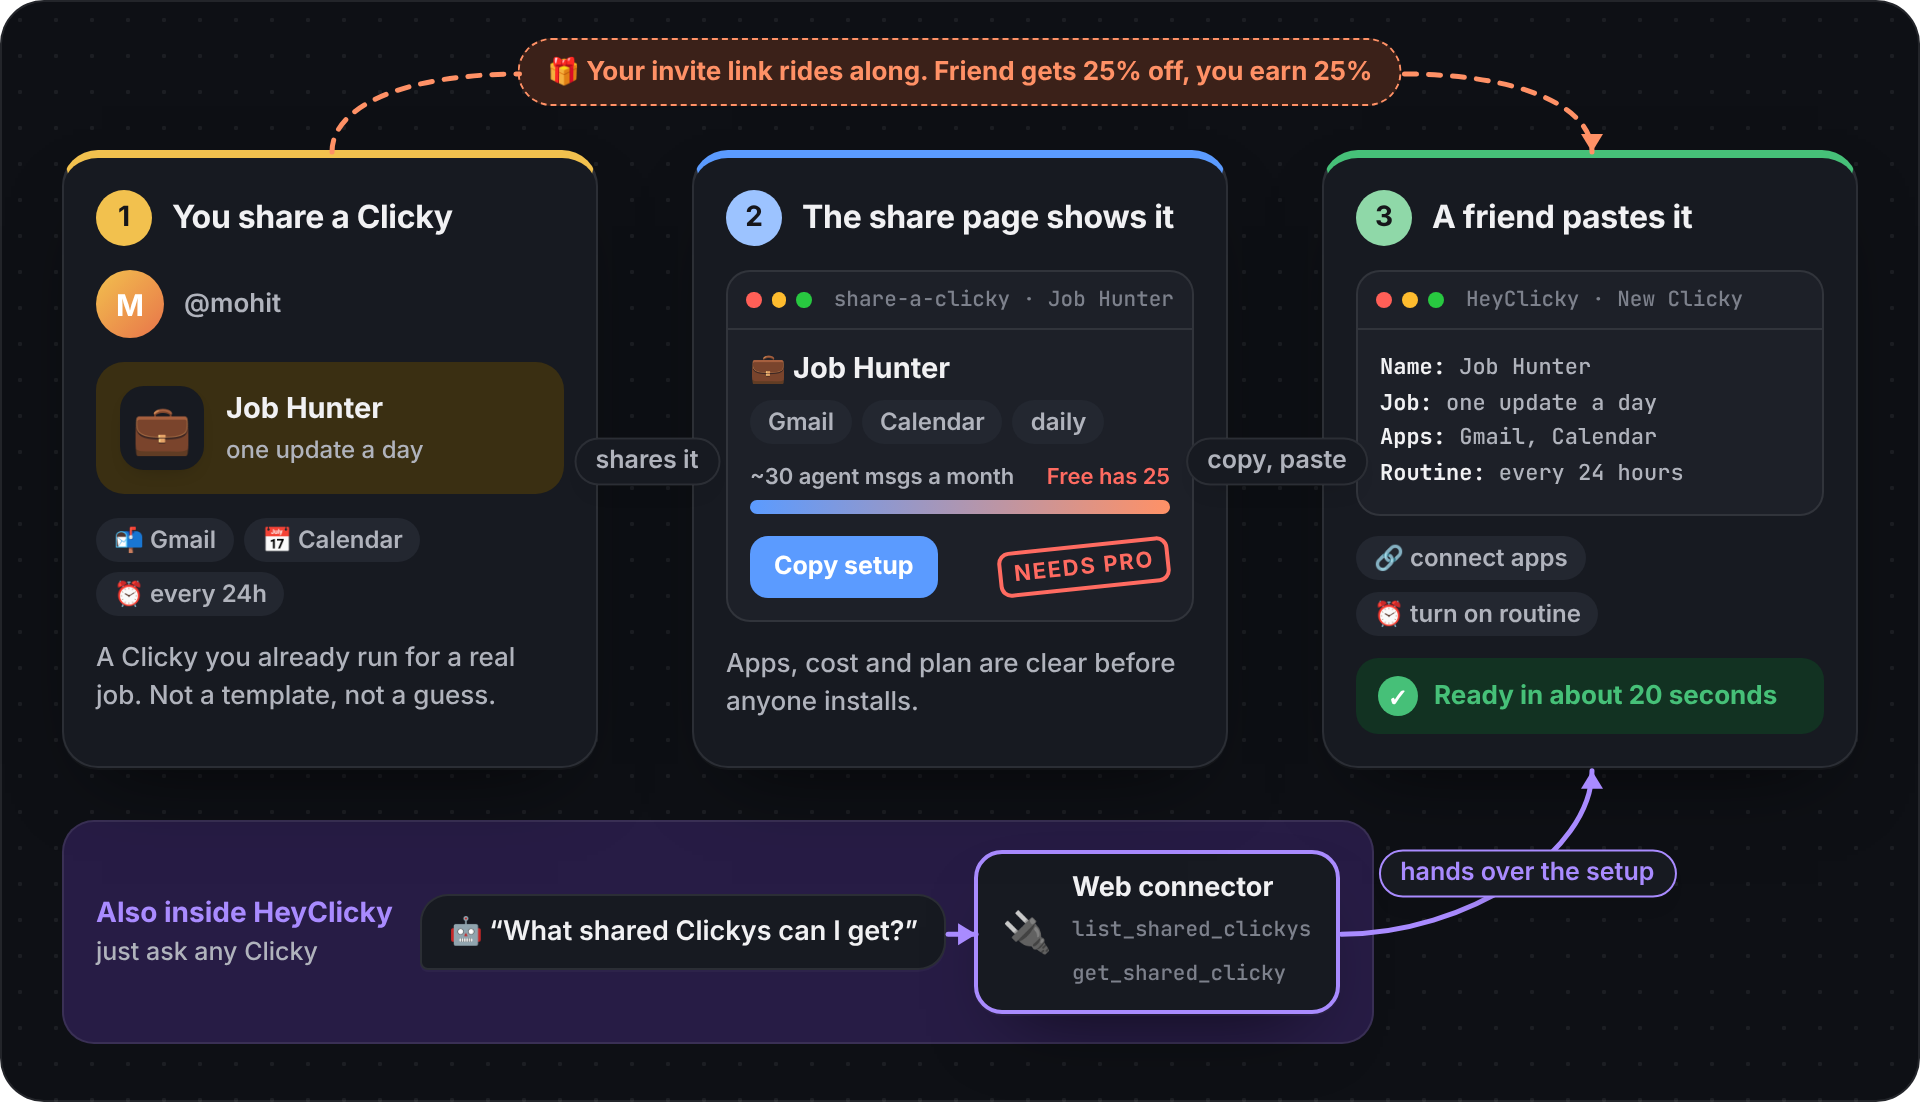
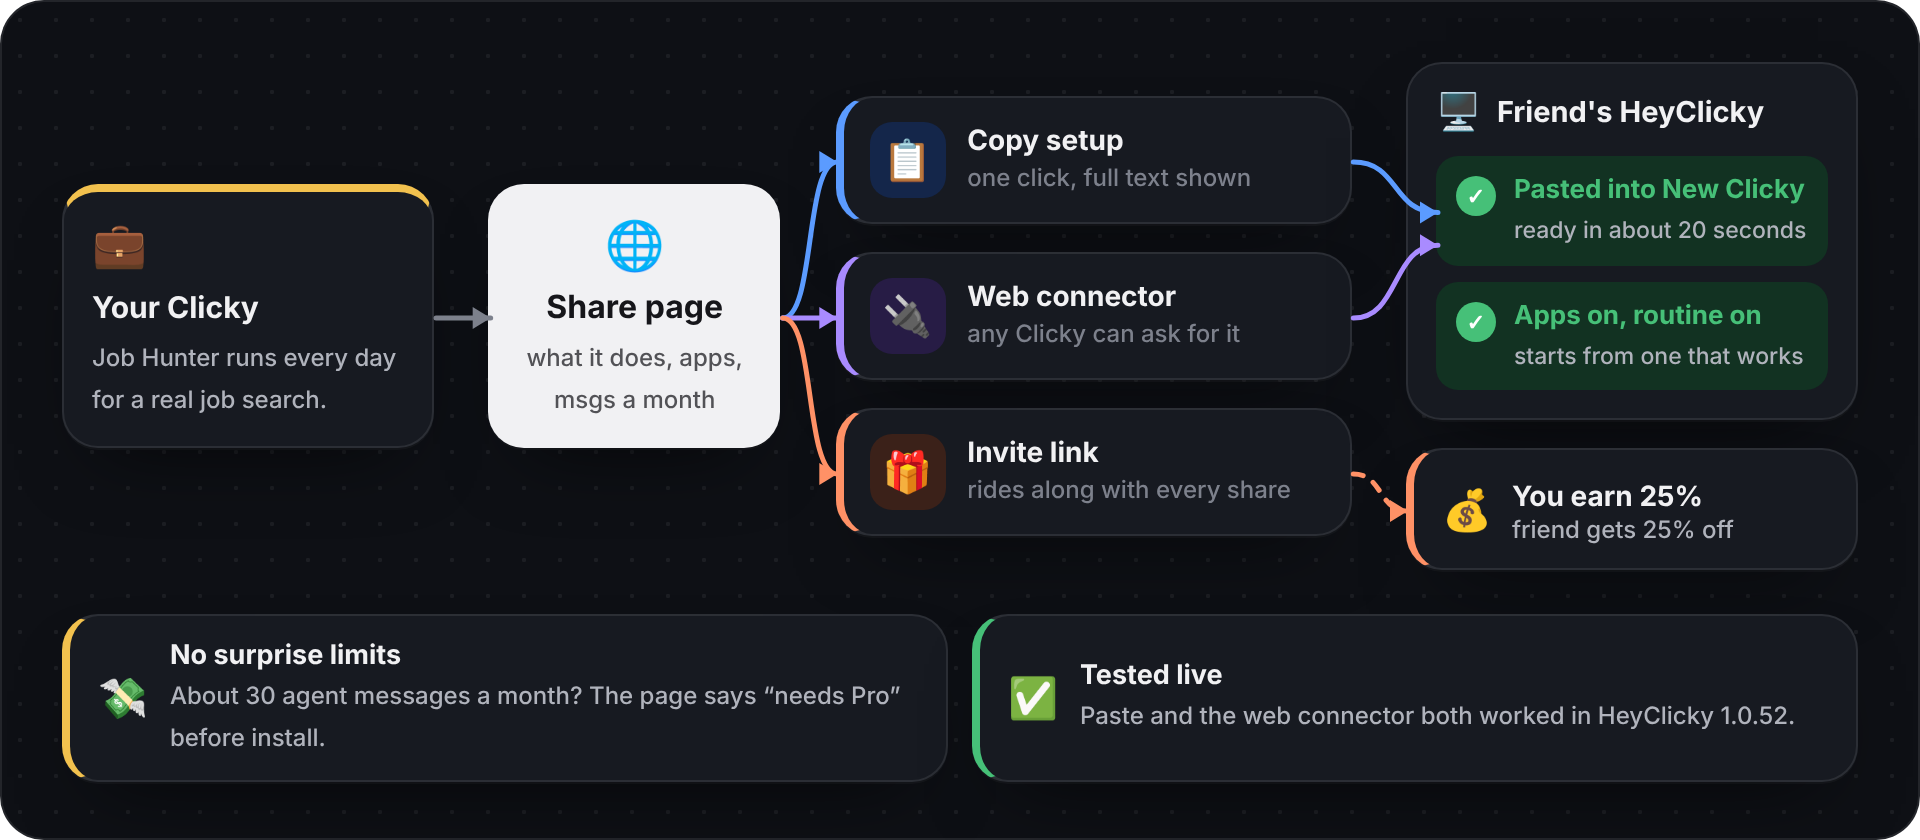
README: diagram 1 redone in the same block style as diagram 2
Claude-Session: https://claude.ai/code/session_01Xci3RdkpyYGFbCjq6sm4UH

diff --git a/README.md b/README.md
@@ -24,7 +24,7 @@ This is a bet, not a proven result. The metrics I'd use to test it are in [How I
 
 ## How to use it
 
-<p align="center"><a href="https://mohit-malviya-ai-pm.github.io/share-a-clicky/"><picture><source media="(prefers-color-scheme: dark)" srcset="docs/img/diagram-how-dark.png"><img src="docs/img/diagram-how-light.png" width="960" alt="How it works: 1. you share a Clicky you run for a real job, 2. the share page shows its apps, agent messages a month and whether it needs Pro, with a Copy setup button, 3. a friend pastes it into New Clicky and it is ready in about 20 seconds. Your invite link rides along. Inside HeyClicky, any Clicky can ask the web connector, which hands over the setup."></picture></a></p>
+<p align="center"><a href="https://mohit-malviya-ai-pm.github.io/share-a-clicky/"><picture><source media="(prefers-color-scheme: dark)" srcset="docs/img/diagram-how-dark.png"><img src="docs/img/diagram-how-light.png" width="960" alt="How it works: your Clicky goes on the share page, which shows what it does, its apps and agent messages a month. From there, Copy setup or the web connector puts it in a friend\'s HeyClicky, pasted into New Clicky and ready in about 20 seconds. Your invite link rides along, so you earn 25% and the friend gets 25% off. Tested live in HeyClicky 1.0.52."></picture></a></p>
 
 <p align="center"><sub>Click the diagram for the live page, or try each step: <a href="https://mohit-malviya-ai-pm.github.io/share-a-clicky/">share page</a> · <a href="https://mohit-malviya-ai-pm.github.io/share-a-clicky/?c=job-hunter">Job Hunter's setup</a> · <a href="https://mohit-malviya-ai-pm.github.io/share-a-clicky/#connector">add the connector</a> · <a href="https://mohit-malviya-ai-pm.github.io/share-a-clicky/#demo">watch it</a></sub></p>
 
